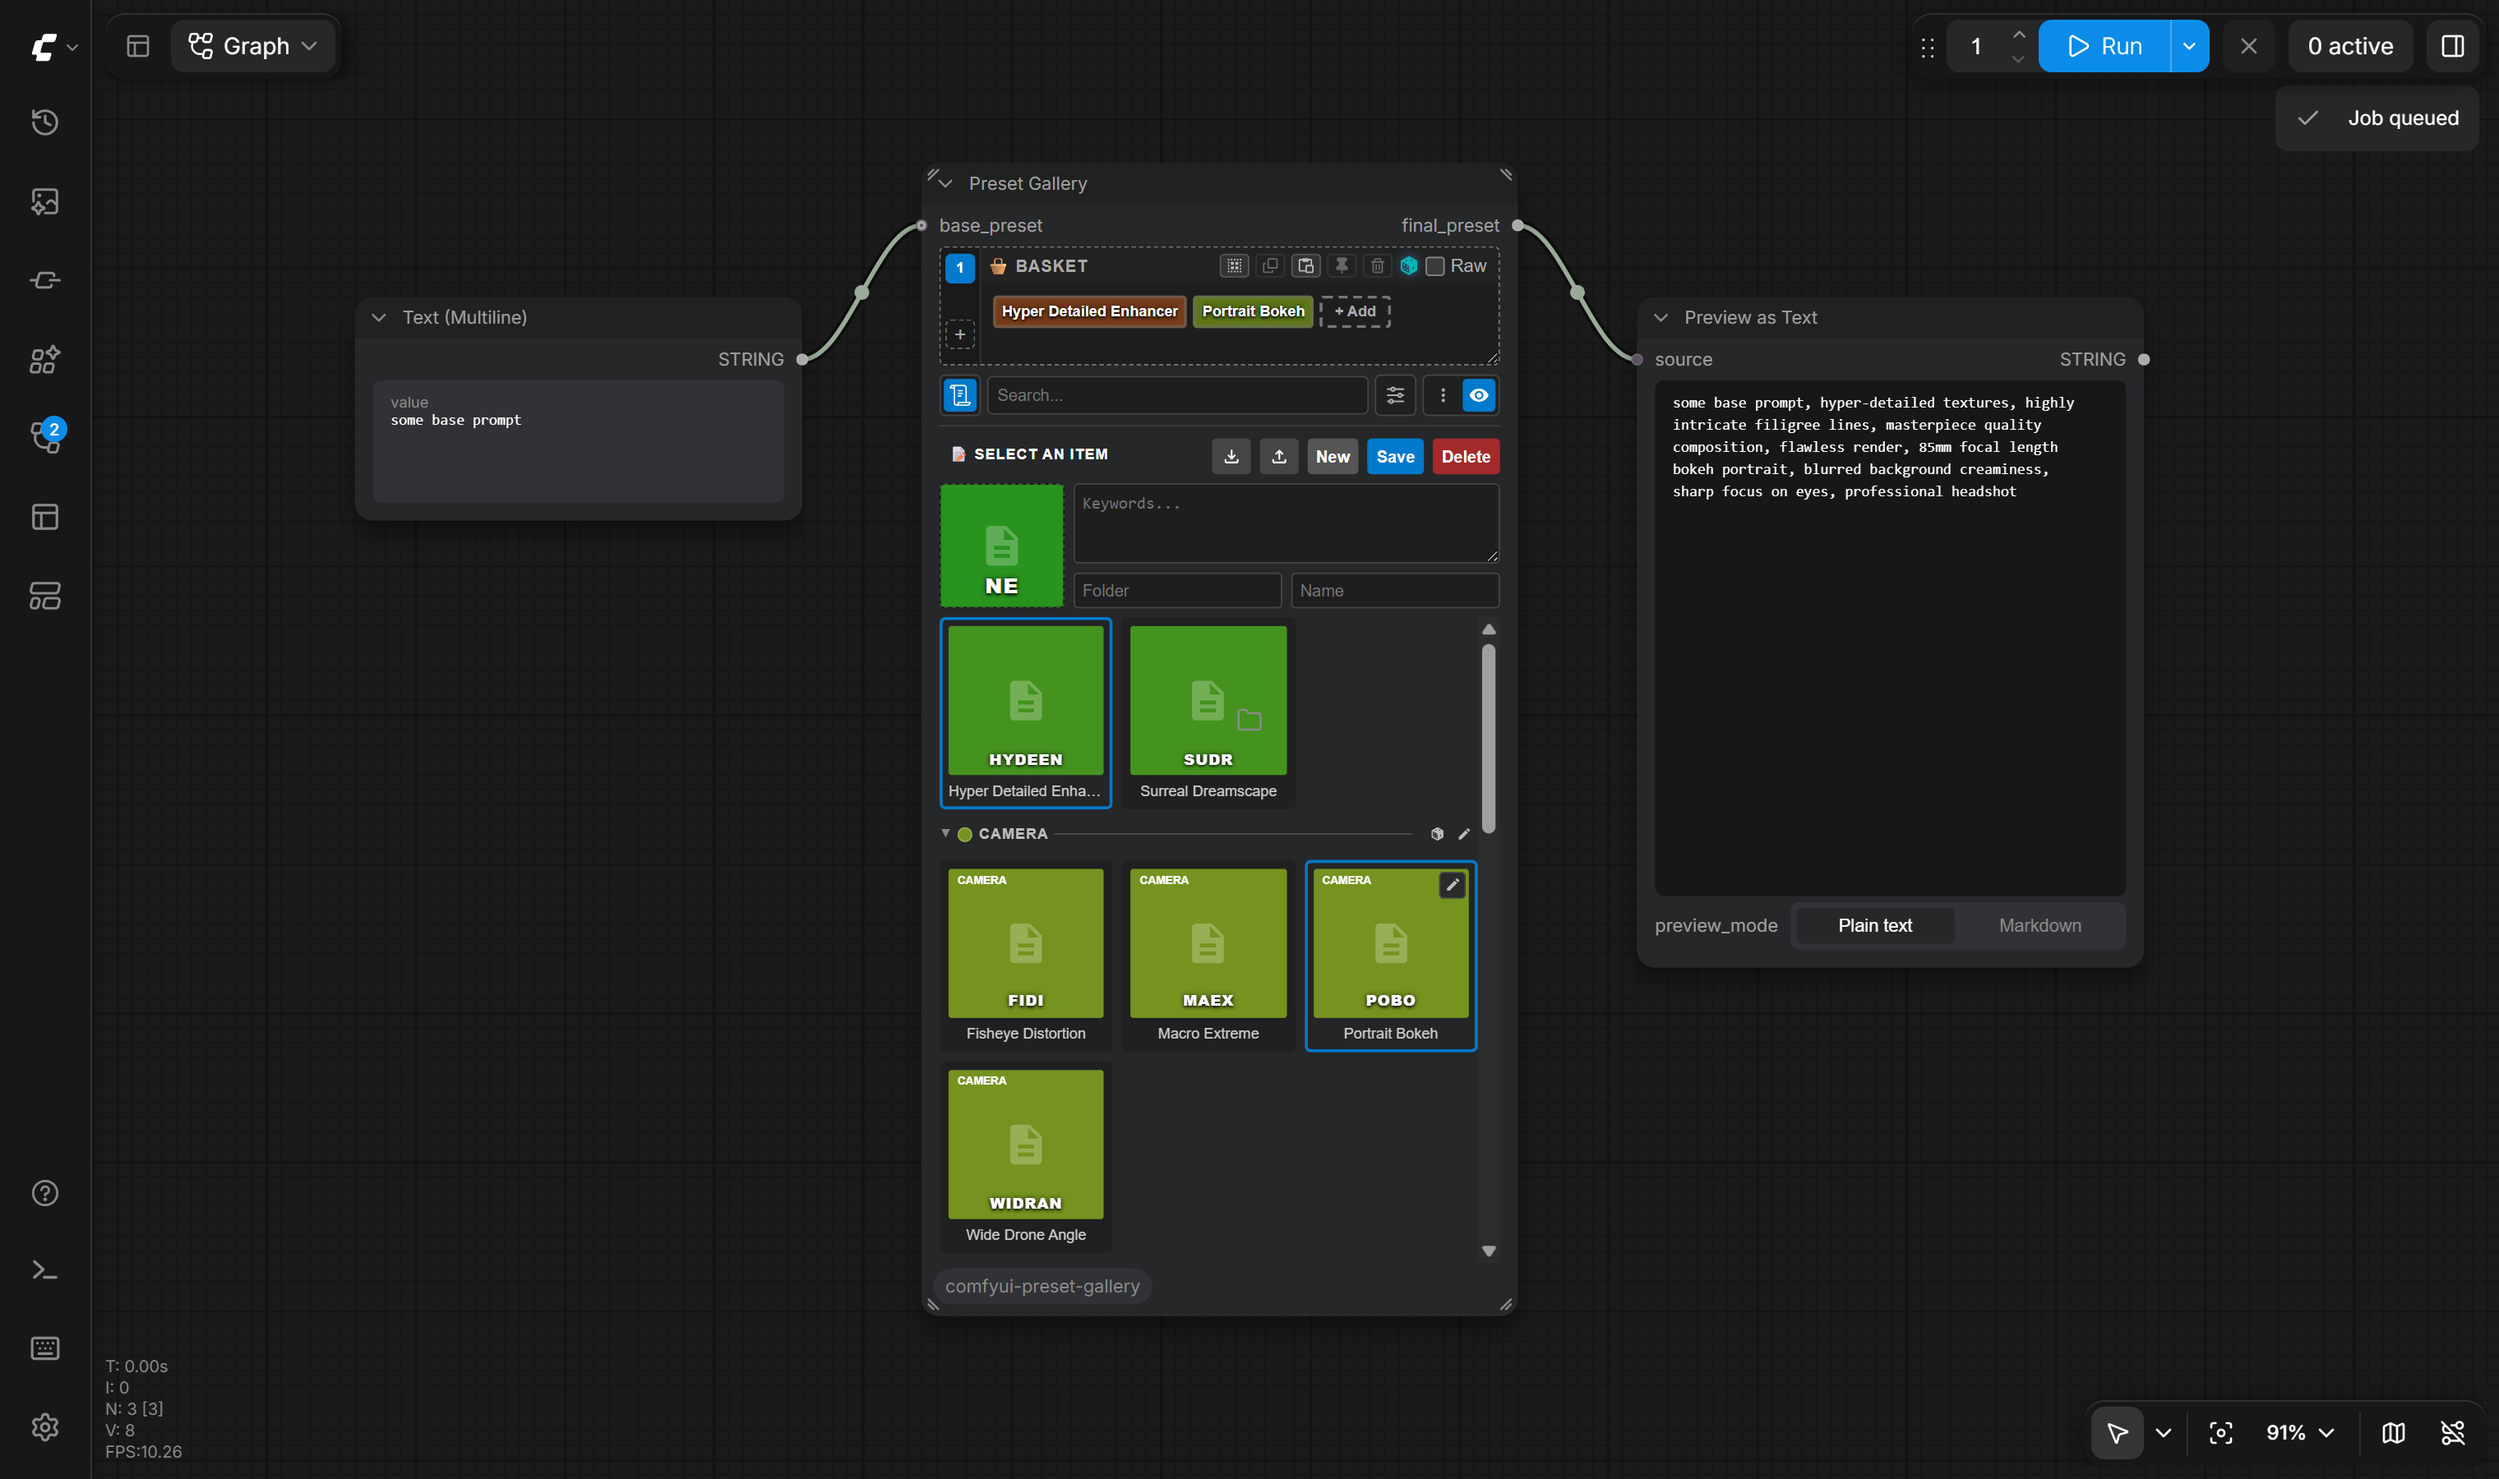
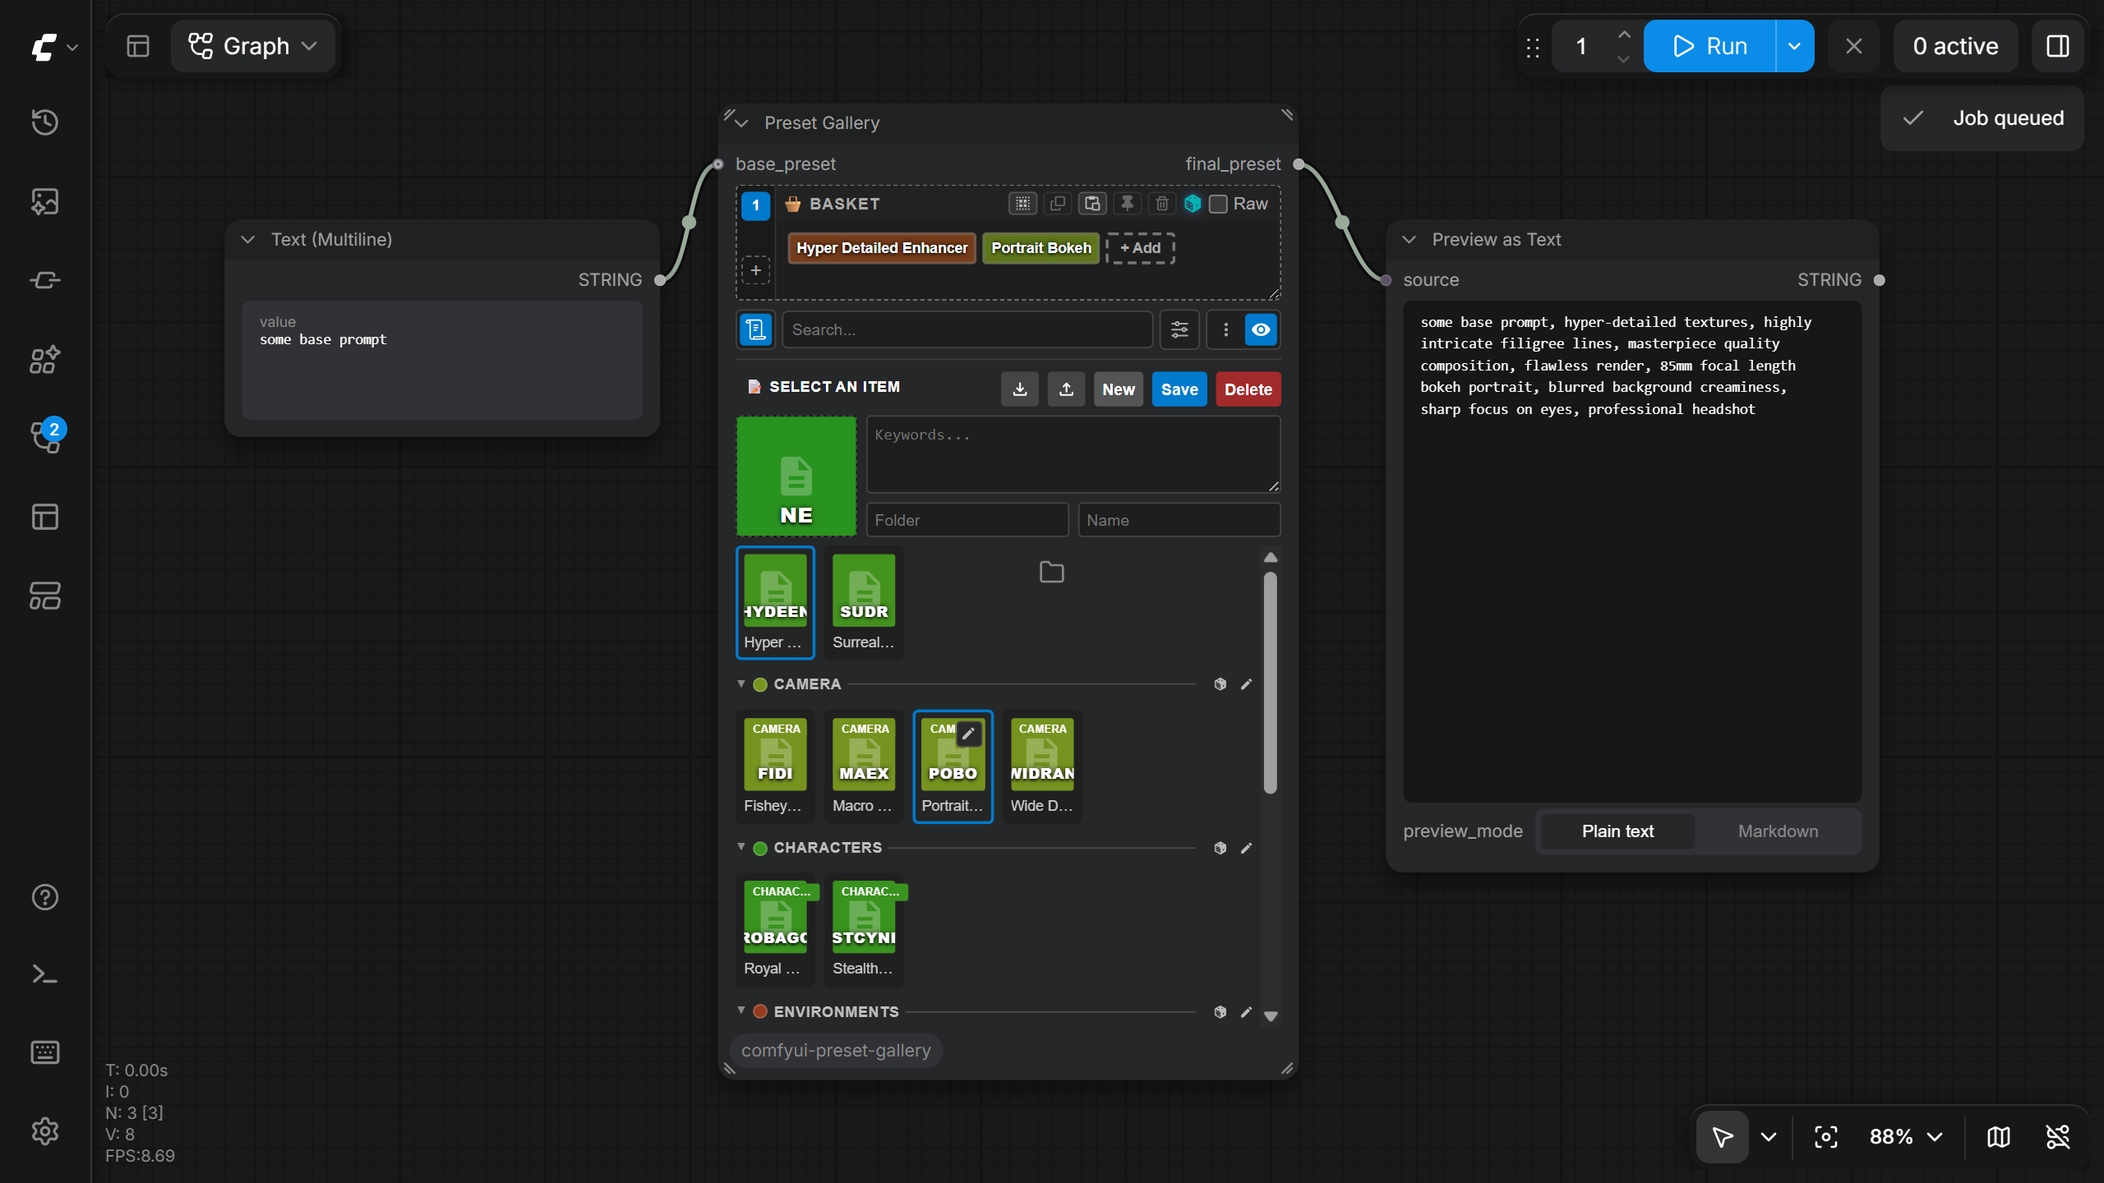
docs: shrink the README screenshot and compose the gallery state
The shot was 3040x1800 with the gallery in the large view and the node
grown to fit whole rows, so most of the canvas was empty. A narrower
viewport plus the small grid view, and the node ends up 643 tall with 3
grid rows instead of ~880 with a half-cut row.

The script now composes the gallery's own state instead of inheriting it:
small view, management panel open, and the remembered panel sizes cleared.
Two bugs fell out of that:

- The management panel was pinned to 90px, but its content needs 123px,
  and its overflow is visible, so the preview row spilled into the grid
  and the grid painted over it. It is now sized from its own measured
  content.
- The basket cap never applied: a stylesheet min-height beats an inline
  height, so an inline cap silently did nothing.

Node sizing now groups grid children by top before taking a boundary (the
items of one row are siblings that share a top), and calibrates the
node-to-grid relation with a probe step, because node.size is graph units
while getBoundingClientRect is CSS px.

diff --git a/README.md b/README.md
@@ -73,4 +73,4 @@ Open **⚙ Settings → Display** to choose how tall it should be:
 npm run screenshot
 ```
 
-It loads `workflows/sample_preset_gallery.json`, serves the sample presets to the gallery, queues a run so the preview node shows the composed prompt, and writes the canvas to `sample.png`. It refuses to write a shot with a toast on screen or a grid row cut at the node's bottom edge, so a failure means the image would have looked wrong.
+It loads `workflows/sample_preset_gallery.json`, serves the sample presets to the gallery, queues a run so the preview node shows the composed prompt, and writes the canvas to `sample.png`. It composes the gallery's own state first — small grid view, the basket and editor panels capped, the management panel open — so the image does not depend on whatever the previous session left in `localStorage`, then sizes the node to a whole number of grid rows. It refuses to write a shot with a toast on screen or a grid row cut at the node's bottom edge, so a failure means the image would have looked wrong.
